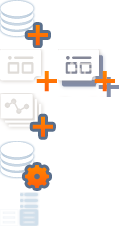
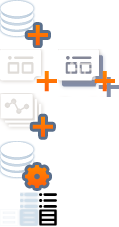
CSS Change

Changed region(s): [[0.3277, 0.8326, 0.479, 1.0]]

diff --git a/discovery-prep-frontend/src/assets/css/common/layout.css b/discovery-prep-frontend/src/assets/css/common/layout.css
@@ -50,12 +50,12 @@
 .pb-contents-top .pb-txt-navi .pb-txt-super:hover {text-decoration: underline;}
 .pb-contents-top .pb-txt-super .pb-icon-super {display:inline-block; position:relative; top:-1px; width:13px; height:16px; margin-right:5px; background:url(../../images/icon_navi.png) no-repeat; background-position:left -114px; vertical-align:middle;}
 
-.pb-contents-top .pb-ui-buttons {float:right; padding:16px 18px 0 0;}
+.pb-contents-top .pb-ui-buttons {float:right;padding:17px 20px 0 0;}
 .pb-contents-top .pb-ui-buttons .pb-component-btn {float:left; margin-left:6px;}
-.pb-contents-top .pb-ui-buttons .pb-ui-part {position:relative; float:left; padding-left:15px; margin-left:20px;}
+.pb-contents-top .pb-ui-buttons .pb-ui-part {position:relative; float:left; padding-left:15px; margin-left:15px;}
 .pb-contents-top .pb-ui-buttons .pb-ui-part:before {display:inline-block; position:absolute; top:50%; left:0; margin-top:-12px; height:24px; border-left:1px solid #cfcec7; content:''; }
 .pb-contents-top [class*="pb-icon-top-"] {display:inline-block; float:left; width:17px; height:14px; margin-left:6px; background:url(../../images/icon_navi.png) no-repeat;}
-.pb-contents-top .pb-ui-buttons .pb-btn-icons {position:relative; top:8px; float:left; }
+.pb-contents-top .pb-ui-buttons .pb-btn-icons {position:relative; top:8px; float:left; padding-left: 15px; margin-left: 20px; }
 .pb-contents-top .pb-ui-part2 {float:left; position:relative;  margin-left:20px; padding-left:17px;}
 .pb-contents-top .pb-ui-part2:before {display:inline-block; position:absolute; top:50%; left:0; margin-top:-9px; height:17px; border-left:1px solid #b4b4b2; content:'';}
 .pb-contents-top .pb-icon-top-prev,
@@ -68,6 +68,45 @@
 .pb-contents-top .pb-icon-top-redo {width:15px; height:16px; }
 .pb-contents-top .pb-icon-top-undo {background-position:left -131px;}
 .pb-contents-top .pb-icon-top-redo {background-position:left -148px; margin-left:14px}
+
+/***********************************************************************
+     Layout : TOP TOGGLE BUTTON
+ *************************************************************************/
+.pb-contents-top .pb-icon-top-list {width:17px; height:17px;background-position:left -211px;}
+.pb-contents-top .pb-icon-top-grid {width:19px;height:18px;background-position:left -228px;}
+.pb-contents-top .pb-list-toggle {float:left; padding:6px 0 0 0;}
+.pb-contents-top .pb-list-toggle li {float:left; padding:0 5px;}
+.pb-contents-top .pb-list-toggle li a em.pb-icon-list,
+.pb-contents-top .pb-list-toggle li a em.pb-icon-grid {display:inline-block; opacity:0.4; background:url(../../images/icon_intro.png) no-repeat;}
+.pb-contents-top .pb-list-toggle li a em.pb-icon-list {width:19px; height:17px; background-position: -39px -192px}
+.pb-contents-top .pb-list-toggle li a em.pb-icon-grid {width:19px; height:17px; background-position: -39px -209px}
+.pb-contents-top .pb-list-toggle li a:hover em.pb-icon-list,
+.pb-contents-top .pb-list-toggle li a:hover em.pb-icon-grid,
+.pb-contents-top .pb-list-toggle li.is-selected a em.pb-icon-list,
+.pb-contents-top .pb-list-toggle li.is-selected a em.pb-icon-grid {/*background-position-x:0;*/opacity:1;}
+
+/***********************************************************************
+     Layout : CAROSSEL TOGGLE BUTTON
+ *************************************************************************/
+.pb-rnb-menu.is-selected ul.pb-list-rnb > li.is-selected {position:relative;}
+.pb-wrap-grid-option .pb-list-tab-button {float: left;}
+.page-prep-dataflow .pb-wrap-flow-grid .pb-wrap-grid-option .pb-list-tab-button {margin-left: 10px;}
+.pb-contents-top .pb-ui-buttons .pb-btn-icons:before {display: inline-block;position: absolute;top: 50%;left: 0;margin-top: -12px;height: 24px;border-left: 1px solid #cfcec7;content: '';}
+ul.pb-list-tab-button {position: absolute;float: left;margin: 15px 0 0 14px;top: 0;right: 10px;z-index: 9999;}
+ul.pb-list-tab-button li a {display: block;position: relative;width: 23px;height: 23px;box-sizing: border-box;}
+ul.pb-list-tab-button li:first-of-type a {border-left: none;}
+em[class*="pb-icon-"] {font-size: 0px;vertical-align: middle;}
+ul.pb-list-tab-button li {float: left;position: relative;}
+ul.pb-list-tab-button li a {position: relative;display: block;width: 23px;height: 23px;box-sizing: border-box;}
+ul.pb-list-tab-button li a em:hover {opacity:0.4;}
+ul.pb-list-tab-button li.pb-selected a:before {position: absolute;top: -1px;left: -1px;right: -1px;bottom: -1px;content: '';}
+em.pb-icon-grid, em.pb-icon-listgrid, em.pb-icon-lineage {display: inline-block;width: 17px;height: 17px;background: url(../../images/icon_navi.png) no-repeat;}
+ul.pb-list-tab-button li a em.pb-icon-grid {position: absolute;top: 50%;left: 50%;margin: -7px 0 0 -7px;background-position: left -132px;}
+ul.pb-list-tab-button li .pb-ui-tooltip-info em.pb-icon-view-top {left: 15px;}
+em.pb-icon-listgrid {width: 17px;height: 15px;background-position:left -149px;}
+ul.pb-list-tab-button li.pb-selected a em.pb-icon-listgrid {background-position: left -149px;}
+ul.pb-list-tab-button li a em.pb-icon-listgrid {position: absolute;top: 50%;left: 50%;margin:-7px 0 0 -8px;}
+
 /***********************************************************************
      Layout : LNB
  *************************************************************************/

diff --git a/discovery-prep-frontend/src/app/prepbot/prep/prep-dataset-detail.component.html b/discovery-prep-frontend/src/app/prepbot/prep/prep-dataset-detail.component.html
@@ -145,14 +145,13 @@
             <!-- button -->
             <div class="pb-ui-buttons">
                 <!-- icon button -->
-                <div class="pb-btn-icons">
-                    <a href="javascript:" class="pb-icon-top-undo" (click)="transformAction('UNDO')" [ngClass]="{'ddp-disabled': !undoable}"></a>
-                    <a href="javascript:" class="pb-icon-top-redo" (click)="transformAction('REDO')" [ngClass]="{'ddp-disabled': !redoable}"></a>
-                </div>
+                <!--<div class="pb-btn-icons">-->
+                    <!--<a href="javascript:" class="pb-icon-top-undo" (click)="transformAction('UNDO')" [ngClass]="{'ddp-disabled': !undoable}"></a>-->
+                    <!--<a href="javascript:" class="pb-icon-top-redo" (click)="transformAction('REDO')" [ngClass]="{'ddp-disabled': !redoable}"></a>-->
+                <!--</div>-->
+
+                <a href="javascript:" class="pb-component-btn type-line"><em class="pb-icon-add-r"></em>CREATE DATA RESULT</a>
                 <!-- //icon button -->
-                <div class="pb-ui-part">
-                    <a href="javascript:" class="pb-component-btn type-line">+ CREATE DATA RESULT</a>
-                </div>
             </div>
             <!-- //button -->
             <!-- txt navi -->
@@ -195,6 +194,34 @@
                 <a href="javascript:">
                     <span class="pb-txt-rnb">RULE</span>
                 </a>
+                <ul class="pb-list-tab-button">
+                    <li (click)="transformAction('UNDO')" [ngClass]="{'is-selected': !undoable}">
+                        <a href="javascript:"><em class="pb-icon-grid"></em></a>
+                        <div class="pb-ui-tooltip-info">
+                            <em class="pb-icon-view-top"></em>
+                        </div>
+
+                    </li>
+                    <li (click)="transformAction('REDO')" [ngClass]="{'ddp-disabled': !redoable}">
+                        <a href="javascript:"><em class="pb-icon-listgrid"></em></a>
+                        <div class="pb-ui-tooltip-info">
+                            <em class="pb-icon-view-top"></em>
+                        </div>
+                    </li>
+                </ul>
+                <!--<ul class="pb-list-rnb-tab pb-clear">-->
+                    <!--<li (click)="transformAction('UNDO')" [ngClass]="{'is-selected': !undoable}">-->
+                        <!--<a href="javascript:">-->
+                            <!--<em class="pb-icon-tab-data"></em>-->
+                        <!--</a>-->
+                    <!--</li>-->
+                    <!--<li (click)="transformAction('REDO')" [ngClass]="{'ddp-disabled': !redoable}">-->
+                        <!--<a href="javascript:">-->
+                            <!--<em class="pb-icon-tab-rule"></em>-->
+
+                        <!--</a>-->
+                    <!--</li>-->
+                <!--</ul>-->
                 <prep-rnb-rule-list
                         [ruleList]="ruleList"
                         (jumpEvent)="jump($event)"

diff --git a/discovery-prep-frontend/src/app/prepbot/prep/prep-detail.component.html b/discovery-prep-frontend/src/app/prepbot/prep/prep-detail.component.html
@@ -264,7 +264,10 @@
         <div class="pb-contents-top">
             <!-- right -->
             <div class="pb-ui-buttons">
-                <a href="javascript:" class="pb-component-btn type-line" (click)="addDatasets()"><em class="pb-icon-add"></em>ADD DATASET</a>
+                <a href="javascript:" class="pb-component-btn type-line" (click)="addDatasets()"><em class="pb-icon-add-r"></em>ADD DATASET</a>
+            </div>
+            <!--<div class="pb-ui-buttons">-->
+                <!--<a href="javascript:" class="pb-component-btn type-line" (click)="addDatasets()"><em class="pb-icon-add"></em>ADD DATASET</a>-->
                 <!--<a href="javascript:" class="pb-component-btn type-line">MEMO</a>-->
                 <!--<a href="javascript:" class="pb-component-btn type-line">REPORT</a>-->
                 <!--<a href="javascript:" class="pb-component-btn type-line">SHARE</a>-->
@@ -272,7 +275,7 @@
                 <!--<div class="pb-ui-part">-->
                     <!--<a href="javascript:" class="pb-component-btn type-bg">SAVE</a>-->
                 <!--</div>-->
-            </div>
+            <!--</div>-->
             <!-- //right -->
             <!-- txt navi -->
             <!--<div class="pb-txt-navi">-->

diff --git a/discovery-prep-frontend/src/assets/css/page/page.rule.css b/discovery-prep-frontend/src/assets/css/page/page.rule.css
@@ -175,7 +175,7 @@ ul.pb-list-type-data li a .pb-icon-type-sharp {width:16px; height:11px; backgrou
 .pb-wrap-box-rule .pb-box-rule .pb-ui-graph2 .pb-component-search {margin:5px 0 0 0;}
 .pb-wrap-box-rule .pb-box-rule .pb-ui-graph2 .pb-data-set-num {float:left; padding:14px 0 0 0;}
 .pb-wrap-box-rule .pb-box-rule .pb-ui-graph2 .pb-data-set-num .pb-data-txt {float:left; padding-left:10px; color:#222; font-size:12px;}
-.pb-wrap-box-rule .pb-box-rule .pb-ui-graph2 .pb-component-tab-btn {float:left; margin:7px 20px 0 15px}
+.pb-wrap-box-rule .pb-box-rule .pb-ui-graph2 .pb-component-tab-btn {float:left; margin:7px 5px 0 15px}
 .pb-wrap-box-rule .pb-box-rule .pb-wrap-grid {flex:auto; padding:0 20px 20px 20px; height:100%; overflow:auto;}
 .pb-wrap-box-rule .pb-box-rule .pb-wrap-grid .pb-table-grid {white-space:nowrap;}
 .pb-rnb-apply {padding:18px 15px; border-bottom:1px solid #cfcec7;}
@@ -227,5 +227,3 @@ ul.pb-list-type-data li a .pb-icon-type-sharp {width:16px; height:11px; backgrou
 
 .pb-part-content .pb-form-create .pb-create-label {font-weight: normal;color: #4e4e4e;font-size: 14px;}
 .pb-part-content .pb-form-create {margin-bottom:0;}
-
-

diff --git a/discovery-prep-frontend/src/assets/css/component/component.button.css b/discovery-prep-frontend/src/assets/css/component/component.button.css
@@ -60,7 +60,7 @@
 .pb-component-tab-btn li a {display:block; position:relative;width:40px; height:28px; background-color:#e4e3de;}
 .pb-component-tab-btn a:before {display:inline-block; position:absolute; top:50%; left:50%; background:url(../../images/btn_tab.png) no-repeat;content:'';}
 .pb-component-tab-btn li a:hover {background-color:#cfcec7;}
-.pb-component-tab-btn .pb-icon-grid:before {width:11px; height:10px; margin:-5px 0 0 -6px;}
+.pb-component-tab-btn .pb-icon-grid:before {width:11px; height:11px; margin:-5px 0 0 -6px;}
 .pb-component-tab-btn .pb-icon-list:before {width:12px; height:10px; margin:-5px 0 0 -6px;background-position:left -11px;}
 .pb-component-tab-btn li.is-selected .pb-icon-grid:before {background-position-x:-12px;}
 .pb-component-tab-btn li.is-selected .pb-icon-list:before {background-position-x:-13px;}

diff --git a/discovery-prep-frontend/src/assets/css/component/component.grid.css b/discovery-prep-frontend/src/assets/css/component/component.grid.css
@@ -52,3 +52,12 @@ table.pb-component-table tr td:first-of-type{padding-left:30px;}
 table.pb-component-table tr th:last-of-type,
 table.pb-component-table tr td:last-of-type{padding-right:30px;}
 table.pb-component-table tr td .pb-img-file {vertical-align:middle; margin-right:10px;}
+
+/***********************************************************************
+     Compontent : grid Left
+ *************************************************************************/
+ table.pb-table-grid.type-left {border:1px solid #e0e0e0;}
+ table.pb-table-grid.type-left tr {height:60px;}
+ table.pb-table-grid.type-left tr:hover {cursor:pointer;border:1px solid #feb674;background-color: #fffdf5;z-index:10;}
+ table.pb-table-grid.type-left tr th {border-top:none;border-left:3px solid #426895;}
+

diff --git a/discovery-prep-frontend/src/assets/css/popup/popup.create.dataconnect.css b/discovery-prep-frontend/src/assets/css/popup/popup.create.dataconnect.css
@@ -3,7 +3,7 @@
 /***********************************************************************
      Popup : Create1
  *************************************************************************/
-.pb-wrap-connect {display:flex; align-items: center; padding:27px 40px; height:100%;}
+.pb-wrap-connect {display:flex; align-items: center; padding:0 40px; height:100%;}
 .pb-wrap-connect.type-connect {padding-bottom:0;}
 .pb-wrap-connect .pb-ui-file-list {flex:auto; height:100%; overflow:auto;}
 .pb-wrap-connect .pb-ui-file-list .pb-ui-top {padding-bottom:16px;}
